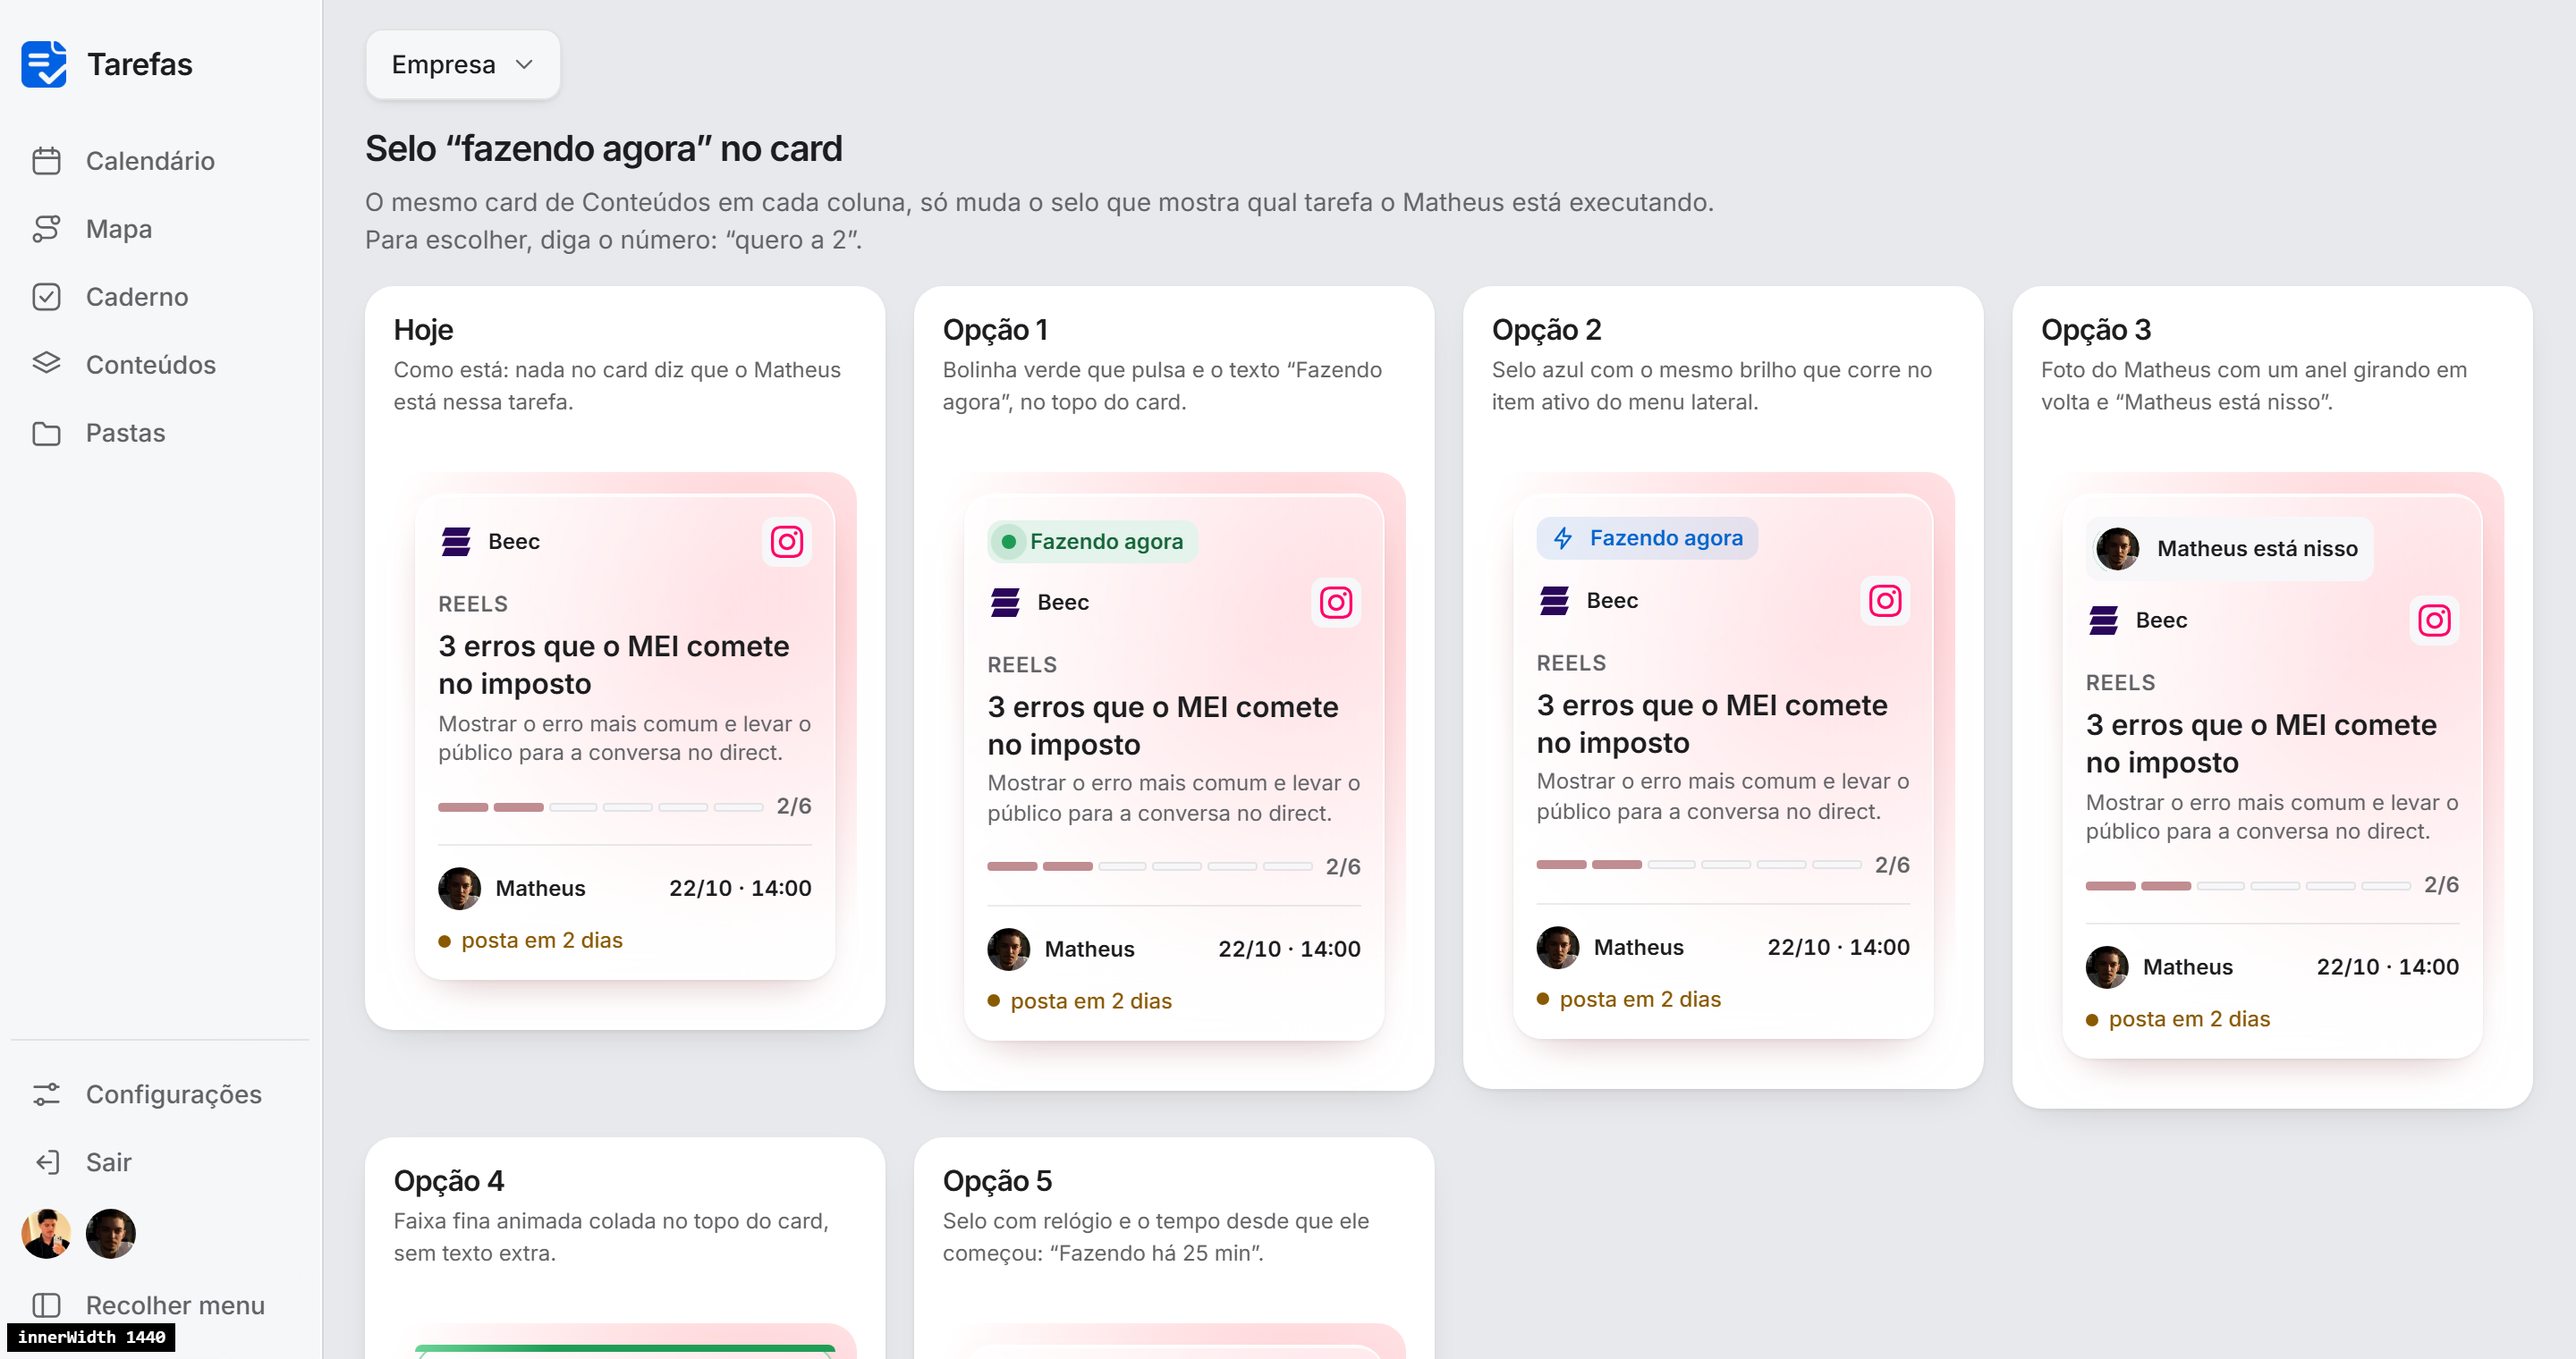
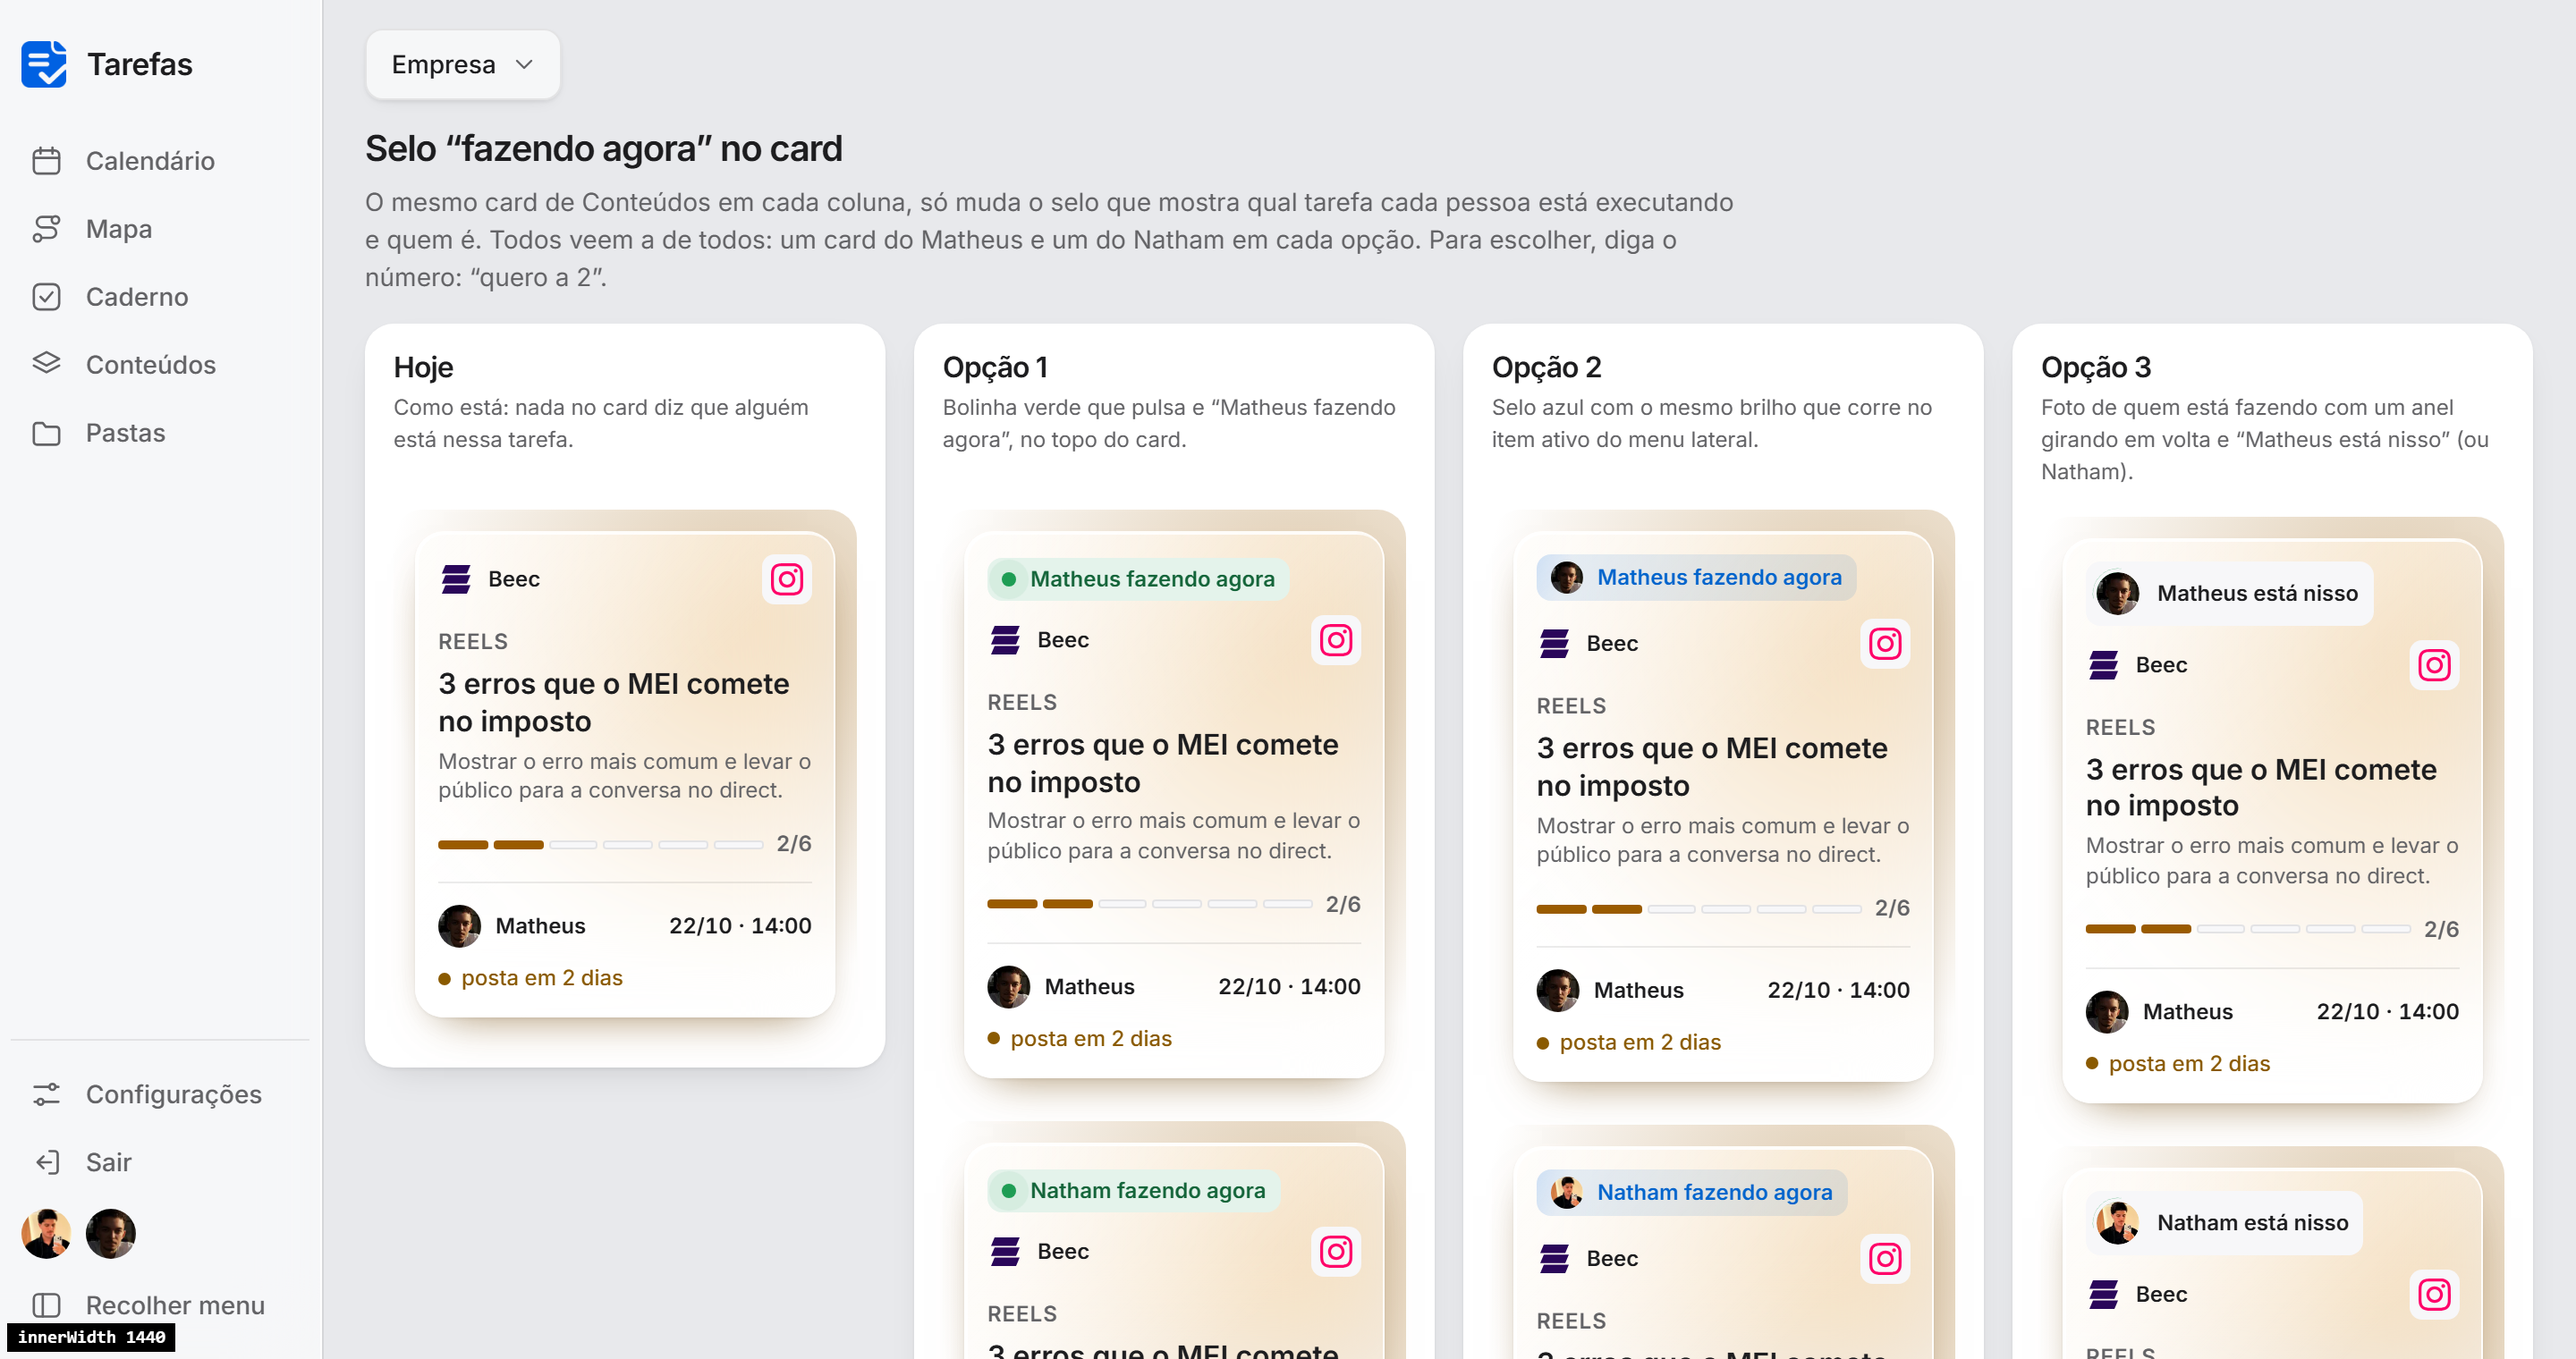
Item 167: selo mostra quem está fazendo (Natham e Matheus), fotos novas

diff --git a/src/components/modelos/TelaFazendoAgora.tsx b/src/components/modelos/TelaFazendoAgora.tsx
@@ -7,27 +7,32 @@ import "./fazendo-agora.css";
 // Item 167: 5 desenhos de selo "fazendo agora" no card de Conteúdos. Só comparação: o card de verdade não mudou.
 // O card abaixo repete a marcação de TelaConteudos (mesmas classes, de conteudos.css), com texto fixo.
 const SELOS: { n: number; nome: string; frase: string }[] = [
-  { n: 1, nome: "Opção 1", frase: "Bolinha verde que pulsa e o texto “Fazendo agora”, no topo do card." },
+  { n: 1, nome: "Opção 1", frase: "Bolinha verde que pulsa e “Matheus fazendo agora”, no topo do card." },
   { n: 2, nome: "Opção 2", frase: "Selo azul com o mesmo brilho que corre no item ativo do menu lateral." },
-  { n: 3, nome: "Opção 3", frase: "Foto do Matheus com um anel girando em volta e “Matheus está nisso”." },
-  { n: 4, nome: "Opção 4", frase: "Faixa fina animada colada no topo do card, sem texto extra." },
-  { n: 5, nome: "Opção 5", frase: "Selo com relógio e o tempo desde que ele começou: “Fazendo há 25 min”." },
+  { n: 3, nome: "Opção 3", frase: "Foto de quem está fazendo com um anel girando em volta e “Matheus está nisso” (ou Natham)." },
+  { n: 4, nome: "Opção 4", frase: "Faixa fina animada colada no topo do card e o nome de quem está fazendo." },
+  { n: 5, nome: "Opção 5", frase: "Selo com foto, relógio e o tempo desde que começou: “Matheus há 25 min”." },
 ];
 
-function Selo({ n }: { n: number }): ReactNode {
-  if (n === 1) return <span className="fa-selo fa-1"><i className="fa-bolinha" aria-hidden />Fazendo agora</span>;
-  if (n === 2) return <span className="fa-selo fa-2"><svg viewBox="0 0 24 24" aria-hidden><path d="M13 2L4 14h7l-1 8 9-12h-7z" /></svg>Fazendo agora</span>;
-  if (n === 3) return <span className="fa-selo fa-3"><span className="fa-anel"><Pessoa quem="matheus" tamanho={24} /></span>Matheus está nisso</span>;
-  if (n === 5) return <span className="fa-selo fa-5"><svg viewBox="0 0 24 24" aria-hidden><circle cx="12" cy="12" r="9" /><path className="fa-ponteiro" d="M12 12V6" /></svg>Fazendo há 25 min</span>;
+type Quem = "natham" | "matheus";
+const NOME: Record<Quem, string> = { natham: "Natham", matheus: "Matheus" };
+
+function Selo({ n, quem }: { n: number; quem: Quem }): ReactNode {
+  const nome = NOME[quem];
+  if (n === 1) return <span className="fa-selo fa-1"><i className="fa-bolinha" aria-hidden />{nome} fazendo agora</span>;
+  if (n === 2) return <span className="fa-selo fa-2"><Pessoa quem={quem} tamanho={18} />{nome} fazendo agora</span>;
+  if (n === 3) return <span className="fa-selo fa-3"><span className="fa-anel"><Pessoa quem={quem} tamanho={24} /></span>{nome} está nisso</span>;
+  if (n === 4) return <span className="fa-selo fa-4">{nome} fazendo agora</span>;
+  if (n === 5) return <span className="fa-selo fa-5"><Pessoa quem={quem} tamanho={18} /><svg viewBox="0 0 24 24" aria-hidden><circle cx="12" cy="12" r="9" /><path className="fa-ponteiro" d="M12 12V6" /></svg>{nome} há 25 min</span>;
   return null;
 }
 
-function Cartao({ n }: { n: number }) {
+function Cartao({ n, quem }: { n: number; quem: Quem }) {
   return (
     <div className="conteudos-pilha fa-pilha" style={{ "--etapa": "var(--etapa-gravacao)" } as CSSProperties}>
       <article className="conteudos-cartao fa-cartao" data-fa={n || undefined}>
         {n === 4 && <span className="fa-faixa" role="status" aria-label="Fazendo agora" />}
-        {n > 0 && n !== 4 && <div className="fa-linha"><Selo n={n} /></div>}
+        {n > 0 && <div className="fa-linha"><Selo n={n} quem={quem} /></div>}
         <div className="conteudos-cartao-topo">
           <span className="conteudos-empresa">
             <SeloEmpresa empresaId="beec" nome="Beec" tamanho={20} />
@@ -43,7 +48,7 @@ function Cartao({ n }: { n: number }) {
           <span>2/6</span>
         </div>
         <div className="conteudos-cartao-rodape">
-          <span className="conteudos-quem-faz"><Pessoa quem="matheus" tamanho={24} />Matheus</span>
+          <span className="conteudos-quem-faz"><Pessoa quem={quem} tamanho={24} />{NOME[quem]}</span>
           <time>22/10 · 14:00</time>
         </div>
         <div className="conteudos-prazo"><span className="conteudos-contagem-dias" data-tom="perto">posta em 2 dias</span></div>
@@ -57,19 +62,20 @@ export function TelaFazendoAgora() {
     <div className="fa">
       <header className="fa-topo">
         <h1>Selo “fazendo agora” no card</h1>
-        <p>O mesmo card de Conteúdos em cada coluna, só muda o selo que mostra qual tarefa o Matheus está executando. Para escolher, diga o número: “quero a 2”.</p>
+        <p>O mesmo card de Conteúdos em cada coluna, só muda o selo que mostra qual tarefa cada pessoa está executando e quem é. Todos veem a de todos: um card do Matheus e um do Natham em cada opção. Para escolher, diga o número: “quero a 2”.</p>
       </header>
       <div className="fa-colunas">
         <section className="fa-bloco">
           <h2>Hoje</h2>
-          <p>Como está: nada no card diz que o Matheus está nessa tarefa.</p>
-          <Cartao n={0} />
+          <p>Como está: nada no card diz que alguém está nessa tarefa.</p>
+          <Cartao n={0} quem="matheus" />
         </section>
         {SELOS.map((s) => (
           <section className="fa-bloco" key={s.n}>
             <h2>{s.nome}</h2>
             <p>{s.frase}</p>
-            <Cartao n={s.n} />
+            <Cartao n={s.n} quem="matheus" />
+            <Cartao n={s.n} quem="natham" />
           </section>
         ))}
       </div>

diff --git a/src/components/modelos/fazendo-agora.css b/src/components/modelos/fazendo-agora.css
@@ -7,6 +7,7 @@
 .fa-bloco { padding: var(--s-16); background: var(--sup); border-radius: var(--raio-c); box-shadow: var(--sombra); }
 .fa-bloco h2 { font-size: var(--t-16); font-weight: 600; }
 .fa-bloco > p { margin: var(--s-4) 0 var(--s-16); min-height: 4.2em; color: var(--fraco); font-size: var(--t-12); }
+.fa-bloco .fa-pilha + .fa-pilha { margin-top: var(--s-12); }
 .fa-pilha { padding: var(--s-12); border-radius: var(--raio-c); }
 .fa-cartao { position: relative; cursor: default; }
 .fa-linha { margin: calc(-1 * var(--s-4)) 0 var(--s-12); }
@@ -34,6 +35,8 @@
 /* 4 · faixa fina no topo do card */
 .fa-faixa { position: absolute; top: -1px; left: -1px; right: -1px; height: 4px; border-radius: var(--raio-c) var(--raio-c) 0 0; background: linear-gradient(90deg, var(--fa-verde) 30%, #7BE0A4 50%, var(--fa-verde) 70%) 0 0 / 200% 100%; animation: fa-brilho 1.8s linear infinite; }
 .fa-cartao[data-fa="4"] { border-color: color-mix(in srgb, var(--fa-verde) 45%, var(--vidro-linha)); }
+
+.fa-4 { padding-inline: 0; color: var(--fa-verde-texto); }
 
 /* 5 · cronômetro */
 .fa-5 { background: var(--sup-2); color: var(--texto); box-shadow: inset 0 0 0 1px var(--linha); font-variant-numeric: tabular-nums; }
